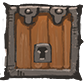
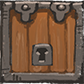
【修改】门，锁，出口图片，微调商店和新手配置

diff --git a/client/src/view/GuideView.ts b/client/src/view/GuideView.ts
@@ -711,7 +711,7 @@ class GuideView extends egret.DisplayObjectContainer {
         await this.showDialog("Nurse", "护士", "免费小贴士，不一定要击杀所有怪物，拿到宝物然后去下一层也是不错的选择", 0, 550, true);                
         await this.showDialog("EyeDemon", "眼魔", "啊，我的眼睛，魔王的战士会再次归来的！", 0, 550, false);
         await this.showDialog("Nurse", "护士", "看到了吧，眼魔死亡会打开空着的格子。现在我们学习一些新的操作", 0, 550, true);
-        await this.slide2OpenGridsWithDialog(1, 4, 5, 4, "Nurse", "护士", "来，跟着小手在屏幕上滑动", 0, 630, true);
+        await this.slide2OpenGridsWithDialog(1, 4, 4, 4, "Nurse", "护士", "来，跟着小手在屏幕上滑动", 0, 630, true);
         await this.showDialog("Nurse", "护士", "干得漂亮，滑动可以快速开启格子，以后可以多使用", 0, 630, true);
         await this.showDialog("Nurse", "护士", "现在我们看到一盾牌，是的，它可以帮你抵挡怪物的攻击，但是现在他挡住了格子上的数字", 0, 630, true);
         await this.slide2DragItemWithDialog(1, 4, 1, 2, "Nurse", "护士", "拖动它，看看格子上的数字是多少", 0, 630, true);
